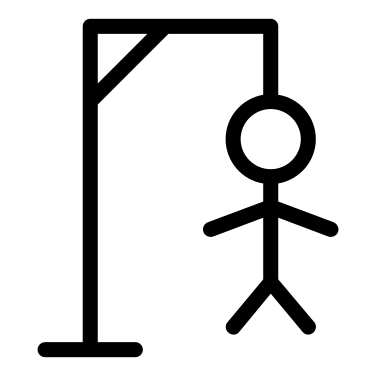
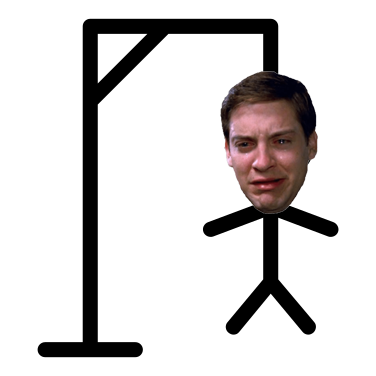
Buttons now disable after use and after losing game. Added peter parker face to last hangman image

Changed region(s): [[0.5851, 0.1755, 0.8484, 0.5851]]

diff --git a/src/components/Dashes.js b/src/components/Dashes.js
@@ -1,6 +1,7 @@
 import React from 'react'
 import './Dashes.css'
 import Image from './Image.js'
+import TryAgain from './TryAgain.js'
 
 import 'bootstrap/dist/css/bootstrap.min.css'
 import { Button } from 'react-bootstrap'
@@ -25,7 +26,8 @@ class Dashes extends React.Component {
             word: '',
             completeness: [],
             hangmanCount: 0,
-            incorrectGuesses: ''
+            incorrectGuesses: '',
+            lose: false
         }
         this.handleClick = this.handleClick.bind(this)
     }
@@ -33,7 +35,7 @@ class Dashes extends React.Component {
     componentDidMount() {
         let randIdx = Math.floor(Math.random() * this.state.list.length)
         this.setState({
-            word: this.state.list[randIdx],
+            word: this.state.list[randIdx].toUpperCase(),
             completeness: "_".repeat(this.state.list[randIdx].length).split("")
         })
     }
@@ -43,7 +45,6 @@ class Dashes extends React.Component {
         let indxs = getAllIndexes(this.state.word, name)
         let tempWord = [...this.state.completeness]
 
-        console.log(this.state.hangmanCount)
         // If correct letter guessed, add letters to completeness array at corresponding index
         if (this.state.word.includes(name)) {
             for (let i in indxs) { tempWord[indxs[i]] = name }
@@ -55,6 +56,7 @@ class Dashes extends React.Component {
                 hangmanCount: newHangman,
                 incorrectGuesses: incGuesses
             })
+            if (newHangman === 6) { this.setState({ lose: true }) }
         }
 
 
@@ -66,37 +68,39 @@ class Dashes extends React.Component {
         return (
             <div className="Dashes">
                 <Image count={this.state.hangmanCount} incorrectGuesses={this.state.incorrectGuesses} />
+                <TryAgain lose={this.state.lose} />
                 <hr />
                 <p>{this.state.word}</p>
-                <p>{this.state.completeness.join(" ")}</p>
+                <p className="mainDashes">{this.state.completeness.join(" ")}</p>
                 <hr />
+
                 <div className="buttonsHang">
-                    <Button className="hangButton" variant="info" name="a" onClick={this.handleClick}>A</Button>
-                    <Button className="hangButton" variant="info" name="b" onClick={this.handleClick}>B</Button>
-                    <Button className="hangButton" variant="info" name="c" onClick={this.handleClick}>C</Button>
-                    <Button className="hangButton" variant="info" name="d" onClick={this.handleClick}>D</Button>
-                    <Button className="hangButton" variant="info" name="e" onClick={this.handleClick}>E</Button>
-                    <Button className="hangButton" variant="info" name="f" onClick={this.handleClick}>F</Button>
-                    <Button className="hangButton" variant="info" name="g" onClick={this.handleClick}>G</Button>
-                    <Button className="hangButton" variant="info" name="h" onClick={this.handleClick}>H</Button>
-                    <Button className="hangButton" variant="info" name="i" onClick={this.handleClick}>I</Button>
-                    <Button className="hangButton" variant="info" name="j" onClick={this.handleClick}>J</Button>
-                    <Button className="hangButton" variant="info" name="k" onClick={this.handleClick}>K</Button>
-                    <Button className="hangButton" variant="info" name="l" onClick={this.handleClick}>L</Button>
-                    <Button className="hangButton" variant="info" name="m" onClick={this.handleClick}>M</Button>
-                    <Button className="hangButton" variant="info" name="n" onClick={this.handleClick}>N</Button>
-                    <Button className="hangButton" variant="info" name="o" onClick={this.handleClick}>O</Button>
-                    <Button className="hangButton" variant="info" name="p" onClick={this.handleClick}>P</Button>
-                    <Button className="hangButton" variant="info" name="q" onClick={this.handleClick}>Q</Button>
-                    <Button className="hangButton" variant="info" name="r" onClick={this.handleClick}>R</Button>
-                    <Button className="hangButton" variant="info" name="s" onClick={this.handleClick}>S</Button>
-                    <Button className="hangButton" variant="info" name="t" onClick={this.handleClick}>T</Button>
-                    <Button className="hangButton" variant="info" name="u" onClick={this.handleClick}>U</Button>
-                    <Button className="hangButton" variant="info" name="v" onClick={this.handleClick}>V</Button>
-                    <Button className="hangButton" variant="info" name="w" onClick={this.handleClick}>W</Button>
-                    <Button className="hangButton" variant="info" name="x" onClick={this.handleClick}>X</Button>
-                    <Button className="hangButton" variant="info" name="y" onClick={this.handleClick}>Y</Button>
-                    <Button className="hangButton" variant="info" name="z" onClick={this.handleClick}>Z</Button>
+                    <Button className="hangButton" variant="info" name="A" onClick={this.handleClick} disabled={this.state.lose || this.state.incorrectGuesses.includes('A') || this.state.completeness.includes('A')}>A</Button>
+                    <Button className="hangButton" variant="info" name="B" onClick={this.handleClick} disabled={this.state.lose || this.state.incorrectGuesses.includes('B') || this.state.completeness.includes('B')}>B</Button>
+                    <Button className="hangButton" variant="info" name="C" onClick={this.handleClick} disabled={this.state.lose || this.state.incorrectGuesses.includes('C') || this.state.completeness.includes('C')}>C</Button>
+                    <Button className="hangButton" variant="info" name="D" onClick={this.handleClick} disabled={this.state.lose || this.state.incorrectGuesses.includes('D') || this.state.completeness.includes('D')}>D</Button>
+                    <Button className="hangButton" variant="info" name="E" onClick={this.handleClick} disabled={this.state.lose || this.state.incorrectGuesses.includes('E') || this.state.completeness.includes('E')}>E</Button>
+                    <Button className="hangButton" variant="info" name="F" onClick={this.handleClick} disabled={this.state.lose || this.state.incorrectGuesses.includes('F') || this.state.completeness.includes('F')}>F</Button>
+                    <Button className="hangButton" variant="info" name="G" onClick={this.handleClick} disabled={this.state.lose || this.state.incorrectGuesses.includes('G') || this.state.completeness.includes('G')}>G</Button>
+                    <Button className="hangButton" variant="info" name="H" onClick={this.handleClick} disabled={this.state.lose || this.state.incorrectGuesses.includes('H') || this.state.completeness.includes('H')}>H</Button>
+                    <Button className="hangButton" variant="info" name="I" onClick={this.handleClick} disabled={this.state.lose || this.state.incorrectGuesses.includes('I') || this.state.completeness.includes('I')}>I</Button>
+                    <Button className="hangButton" variant="info" name="J" onClick={this.handleClick} disabled={this.state.lose || this.state.incorrectGuesses.includes('J') || this.state.completeness.includes('J')}>J</Button>
+                    <Button className="hangButton" variant="info" name="J" onClick={this.handleClick} disabled={this.state.lose || this.state.incorrectGuesses.includes('K') || this.state.completeness.includes('K')}>K</Button>
+                    <Button className="hangButton" variant="info" name="L" onClick={this.handleClick} disabled={this.state.lose || this.state.incorrectGuesses.includes('L') || this.state.completeness.includes('L')}>L</Button>
+                    <Button className="hangButton" variant="info" name="M" onClick={this.handleClick} disabled={this.state.lose || this.state.incorrectGuesses.includes('M') || this.state.completeness.includes('M')}>M</Button>
+                    <Button className="hangButton" variant="info" name="N" onClick={this.handleClick} disabled={this.state.lose || this.state.incorrectGuesses.includes('N') || this.state.completeness.includes('N')}>N</Button>
+                    <Button className="hangButton" variant="info" name="O" onClick={this.handleClick} disabled={this.state.lose || this.state.incorrectGuesses.includes('O') || this.state.completeness.includes('O')}>O</Button>
+                    <Button className="hangButton" variant="info" name="P" onClick={this.handleClick} disabled={this.state.lose || this.state.incorrectGuesses.includes('P') || this.state.completeness.includes('P')}>P</Button>
+                    <Button className="hangButton" variant="info" name="Q" onClick={this.handleClick} disabled={this.state.lose || this.state.incorrectGuesses.includes('Q') || this.state.completeness.includes('Q')}>Q</Button>
+                    <Button className="hangButton" variant="info" name="R" onClick={this.handleClick} disabled={this.state.lose || this.state.incorrectGuesses.includes('R') || this.state.completeness.includes('R')}>R</Button>
+                    <Button className="hangButton" variant="info" name="S" onClick={this.handleClick} disabled={this.state.lose || this.state.incorrectGuesses.includes('S') || this.state.completeness.includes('S')}>S</Button>
+                    <Button className="hangButton" variant="info" name="T" onClick={this.handleClick} disabled={this.state.lose || this.state.incorrectGuesses.includes('T') || this.state.completeness.includes('T')}>T</Button>
+                    <Button className="hangButton" variant="info" name="U" onClick={this.handleClick} disabled={this.state.lose || this.state.incorrectGuesses.includes('U') || this.state.completeness.includes('U')}>U</Button>
+                    <Button className="hangButton" variant="info" name="V" onClick={this.handleClick} disabled={this.state.lose || this.state.incorrectGuesses.includes('V') || this.state.completeness.includes('V')}>V</Button>
+                    <Button className="hangButton" variant="info" name="W" onClick={this.handleClick} disabled={this.state.lose || this.state.incorrectGuesses.includes('W') || this.state.completeness.includes('W')}>W</Button>
+                    <Button className="hangButton" variant="info" name="X" onClick={this.handleClick} disabled={this.state.lose || this.state.incorrectGuesses.includes('X') || this.state.completeness.includes('X')}>X</Button>
+                    <Button className="hangButton" variant="info" name="Y" onClick={this.handleClick} disabled={this.state.lose || this.state.incorrectGuesses.includes('Y') || this.state.completeness.includes('Y')}>Y</Button>
+                    <Button className="hangButton" variant="info" name="Z" onClick={this.handleClick} disabled={this.state.lose || this.state.incorrectGuesses.includes('Z') || this.state.completeness.includes('Z')}>Z</Button>
                 </div>
             </div>
         )

diff --git a/src/components/TryAgain.js b/src/components/TryAgain.js
@@ -1,0 +1,29 @@
+import 'bootstrap/dist/css/bootstrap.min.css'
+import { Button } from 'react-bootstrap'
+
+import React from 'react'
+
+
+class TryAgain extends React.Component {
+
+
+    render() {
+        if (this.props.lose) {
+            return (
+                <div>
+                    <span>You lose</span>
+                    <div>
+                        <Button onClick={() => window.location.reload()}>Try New Word</Button>
+                    </div>
+                </div>
+
+            )
+        } else {
+            return (null)
+        }
+
+    }
+
+}
+
+export default TryAgain

diff --git a/src/components/Image.js b/src/components/Image.js
@@ -11,8 +11,6 @@ import './Image.css'
 const hangImages = [hangman0, hangman1, hangman2, hangman3, hangman4, hangman5, hangman6]
 
 function Image(props) {
-    let hangImage = 'hangman'.concat(props.count)
-    console.log(hangImage)
     return (
         <div className="display">
             <img className="hangImage" src={hangImages[props.count]} alt="" />

diff --git a/src/components/Dashes.css b/src/components/Dashes.css
@@ -4,6 +4,10 @@
     position: relative;
 }
 
+.mainDashes {
+    font-size: 10vw;
+}
+
 .buttonsHang {
     display: block;
     padding: 30px;

diff --git a/src/components/Image.css b/src/components/Image.css
@@ -5,7 +5,8 @@
 }
 
 .hangImage {
-    display: block;
+    display: inline-block;
+    text-align: center;
 }
 
 .incorrectCount {
